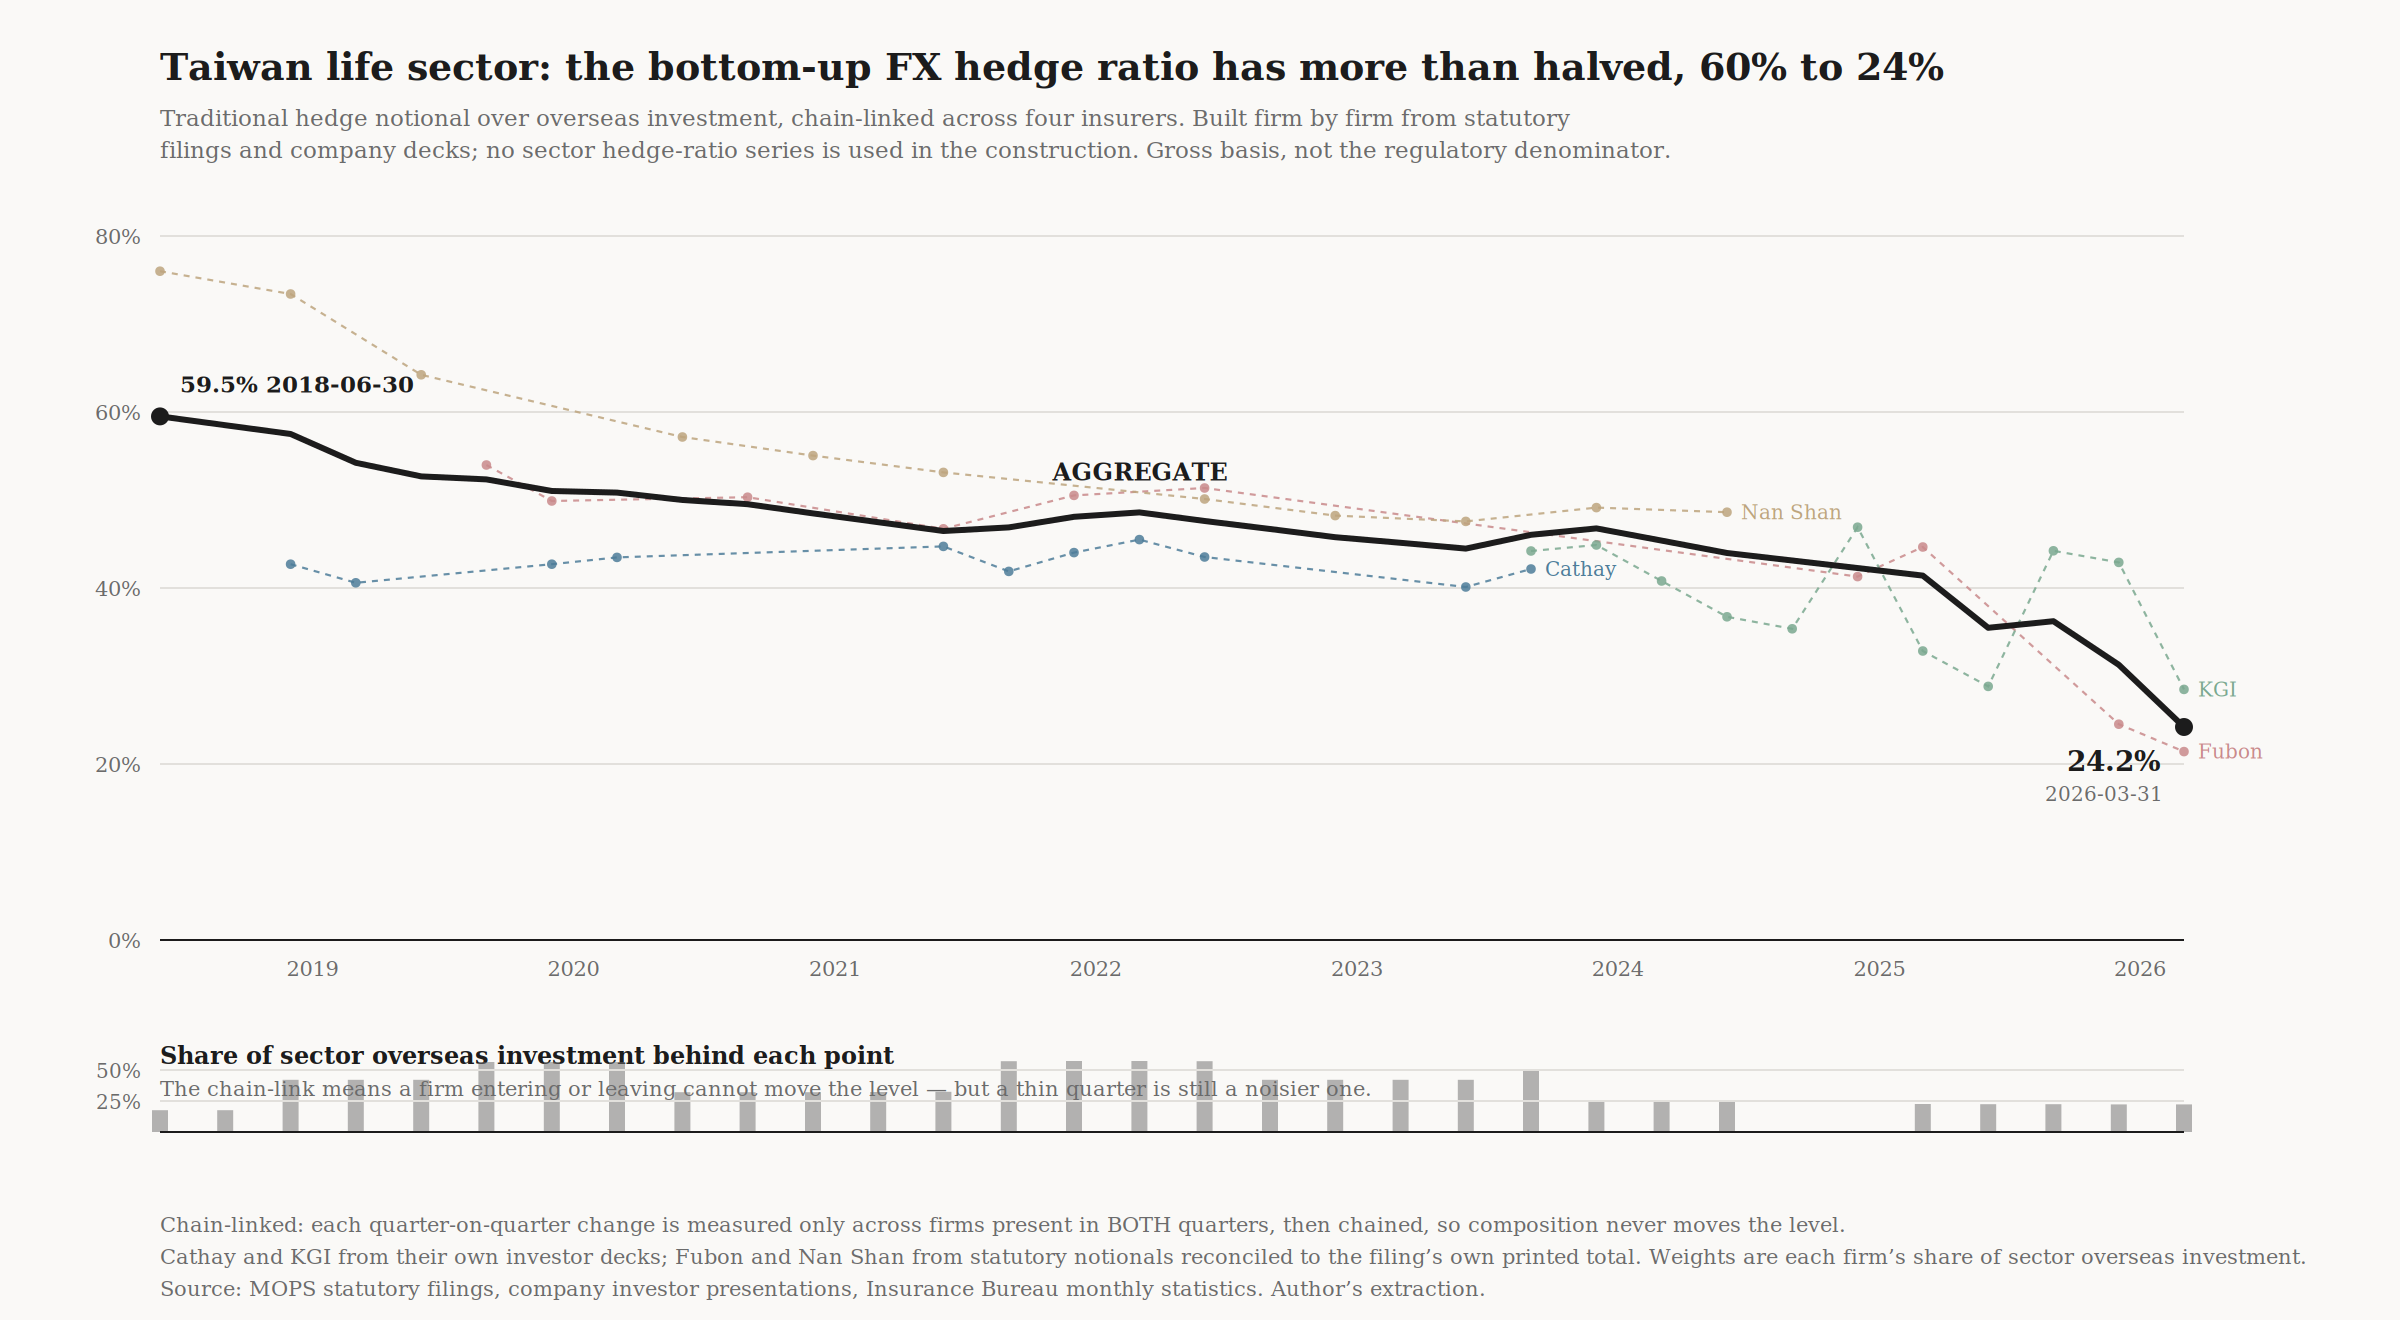
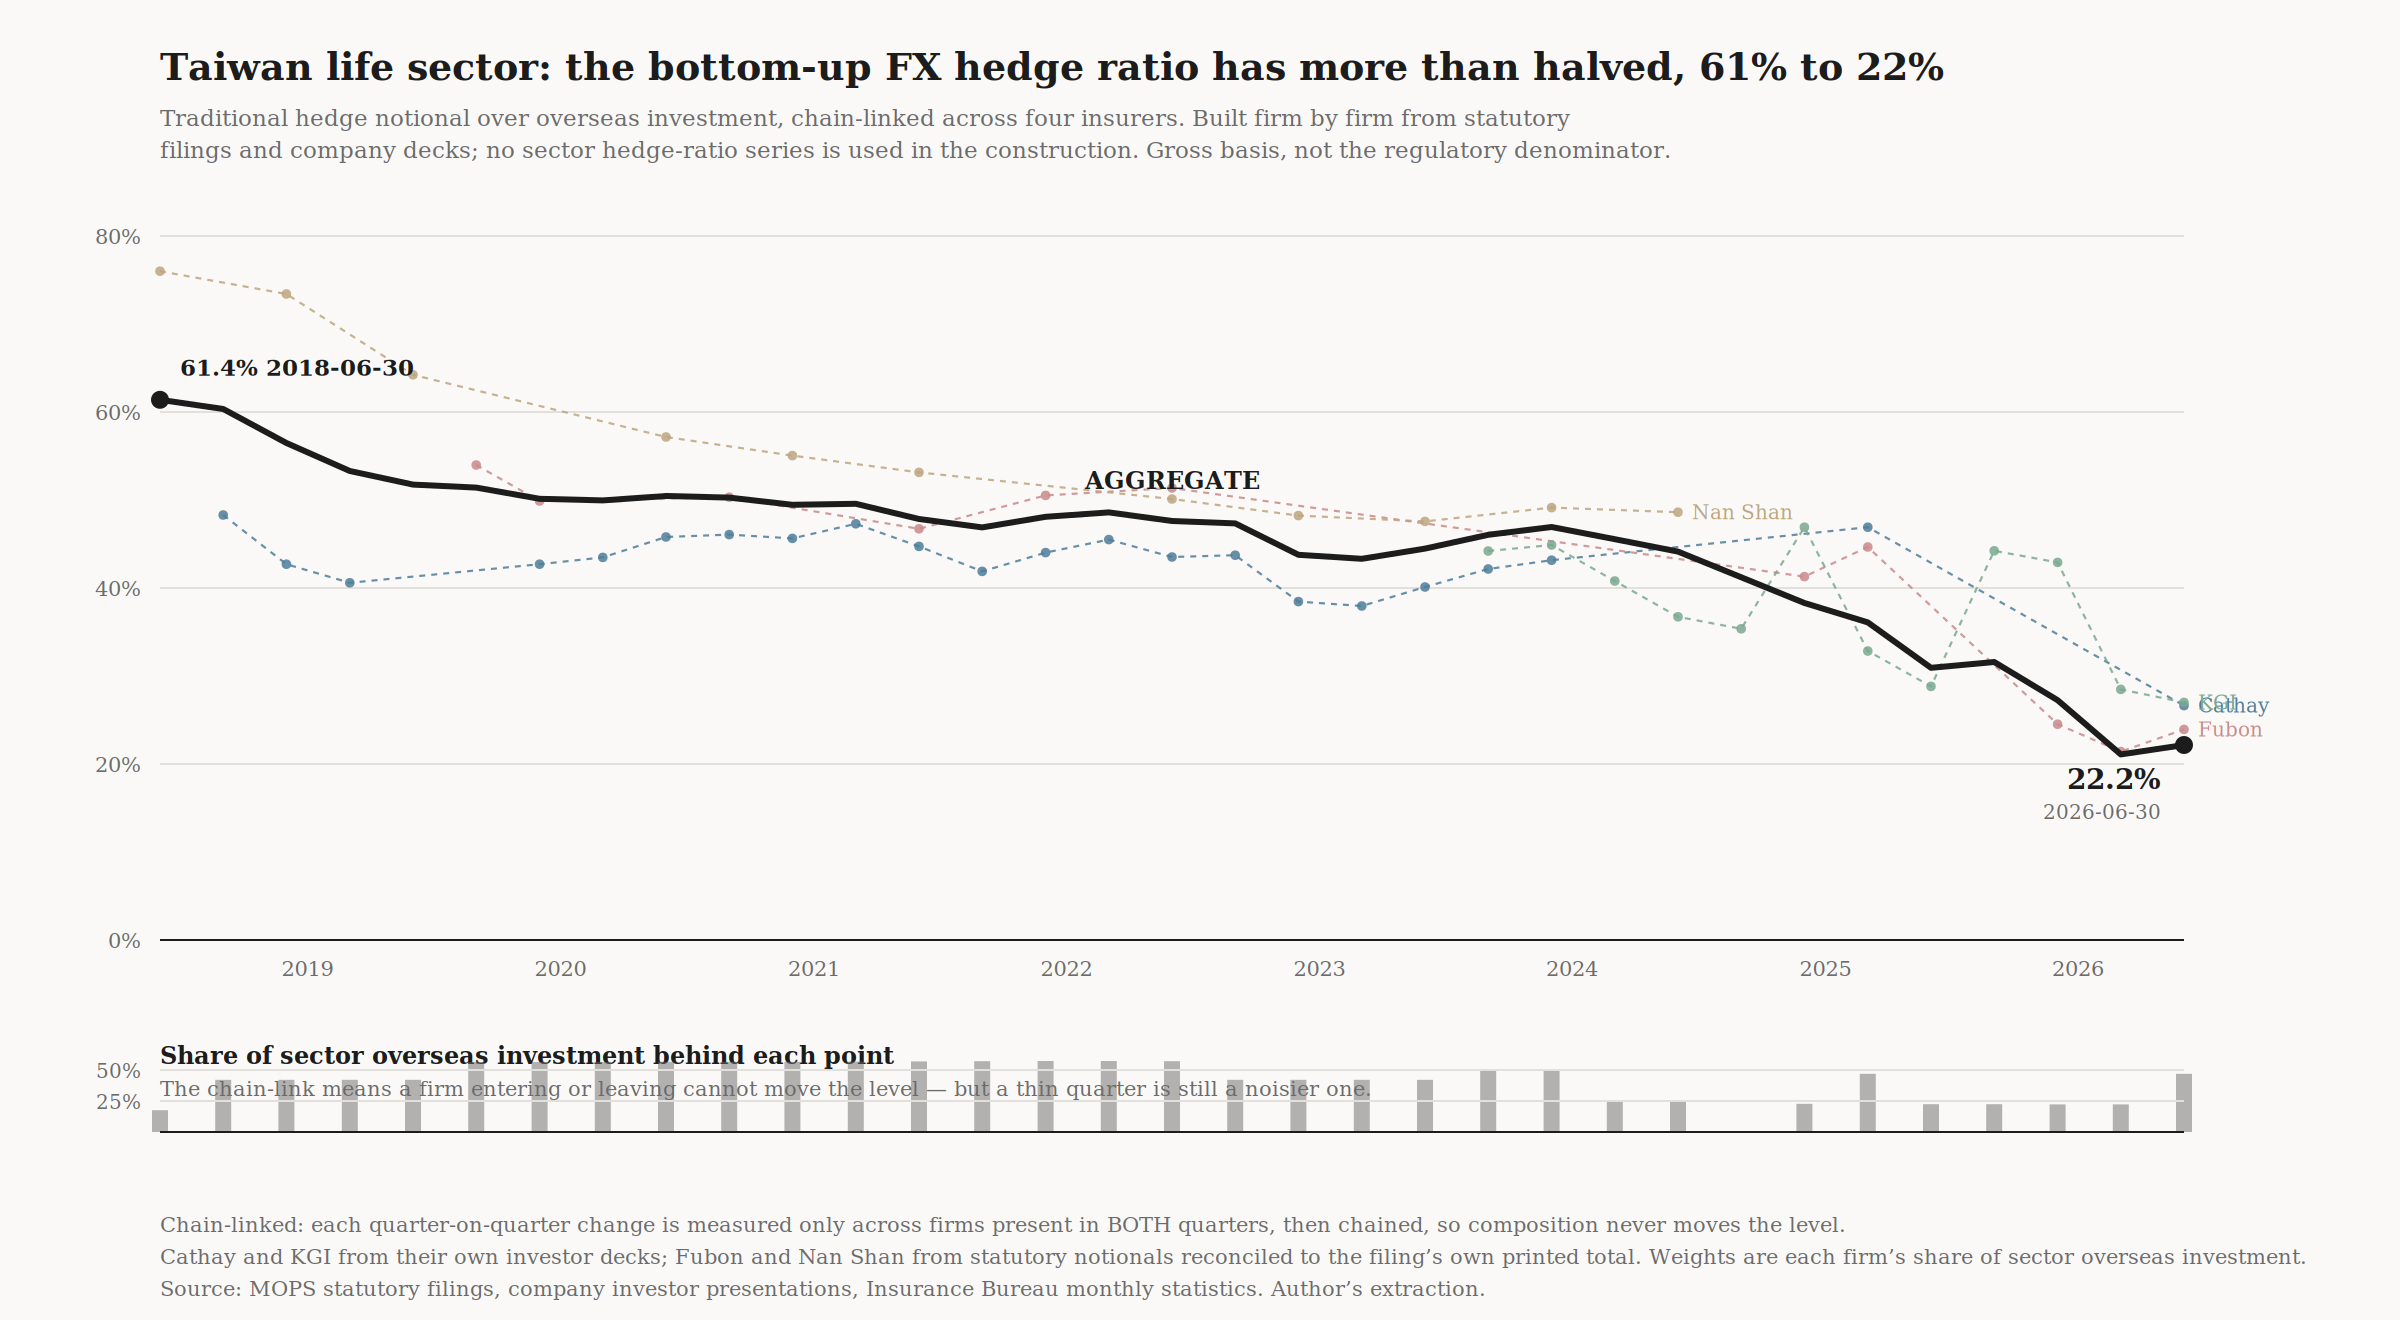
The aggregate FX hedge ratio, 32 quarters, 2018-06 to 2026-06
61.4% falling to 22.2%. Four insurers, chain-linked, 22-57% of sector overseas
investment behind each point.

Three fixes made it reliable rather than merely available:

Cathay's own quarterly deck file carries 26 hedge observations back to 1Q15
against the 12 the structure file yielded, and gives the FX-risk base at 23
periods - a base so stable, 68-71% throughout and 74% from 2026, that
interpolating it costs almost nothing. That is a quarter of the sector restored.

An EXACT observation was being discarded when it happened to sit inside a long
gap. Cathay discloses at 2025-03 and 2026-06 with nothing between 2023-12 and
2025-03, so both real points were thrown away and a quarter of the sector
vanished from the series in precisely the quarters the ratio was collapsing.

Taiwan Life was added and then removed. Its statutory notionals do not reconcile
to the filing's own printed total - which is why the verified panel excludes
them - and pulling them in raw produced a ratio running 2% in 2018 to 72% in
2024. That is capture changing, not hedging. Coverage bought that way is worth
less than nothing because it moves the aggregate and looks like a finding. A
plausibility gate now drops any firm-quarter outside 5-95% so this cannot pass
silently again.

Claude-Session: https://claude.ai/code/session_01U6NeEFVTAXo1Ao7VaAHCtb

diff --git a/scripts/stage6_aggregate_hedge_ratio.py b/scripts/stage6_aggregate_hedge_ratio.py
@@ -50,6 +50,9 @@ WAYBACK = ROOT / "data" / "firm_fund_utilisation_wayback.csv"
 FUNDS = ROOT / "data" / "ib_firm_funds.csv"
 PANEL = ROOT / "data" / "firm_hedge_panel.csv"
 STRUCT = ROOT / "data" / "hedging_structure.csv"
+CATHAYQ = ROOT / "data" / "cathay_fx_quarterly.csv"
+NOTIONAL = ROOT / "data" / "firm_hedge_notional.csv"
+FX = ROOT / "data" / "usdtwd_monthly.csv"
 OUT = ROOT / "data" / "aggregate_hedge_ratio.csv"
 
 # config/firm_uids.tsv only. Nothing inferred: an earlier pass guessed four more
@@ -57,10 +60,30 @@ OUT = ROOT / "data" / "aggregate_hedge_ratio.csv"
 UID = {"27935073": "fubon_life", "03374707": "cathay_life",
        "11456006": "nanshan_life", "03434016": "kgi_life",
        "03557017": "taiwan_life", "03458902": "shinkong_pre2026"}
+# Taiwan Life is deliberately ABSENT. Its statutory notionals do not reconcile
+# to the filing's own printed total, which is why the verified panel excludes
+# them, and pulling them in raw produced a ratio running from 2% in 2018 to 72%
+# in 2024 — capture changing, not hedging. Coverage bought that way is worth
+# less than nothing: it moves the aggregate and looks like a finding.
 NAME = {"cathay_life": "Cathay", "fubon_life": "Fubon", "kgi_life": "KGI",
         "nanshan_life": "Nan Shan"}
 MAX_GAP_Q = 4          # quarters a firm's ratio may be interpolated across
 MIN_LINK = 0.15        # minimum sector share behind both ends of a chain link
+
+
+def qend(p):
+    """Deck period label to the quarter-end it reports: FY14 -> 2014-12-31."""
+    import re as _re
+    p = (p or "").strip().upper()
+    m = _re.fullmatch(r"(FY|1Q|2Q|3Q|4Q|1H|2H|9M)?(\d{2}|\d{4})", p)
+    if not m:
+        return None
+    pre, y = m.group(1), int(m.group(2))
+    y = y + 2000 if y < 100 else y
+    return {None: f"{y}-12-31", "FY": f"{y}-12-31", "1Q": f"{y}-03-31",
+            "2Q": f"{y}-06-30", "1H": f"{y}-06-30", "3Q": f"{y}-09-30",
+            "9M": f"{y}-09-30", "4Q": f"{y}-12-31",
+            "2H": f"{y}-12-31"}.get(pre)
 
 
 def mo(d):
@@ -109,6 +132,14 @@ def interp(pts, d, max_gap=None):
         return None
     xs = sorted(pts)
     t = mo(d)
+    # An EXACT observation is always returned. Without this the gap test below
+    # discarded real data points that happened to sit inside a long gap: Cathay
+    # discloses at 2025-03 and 2026-06 with nothing between 2023-12 and 2025-03,
+    # so both were thrown away and a quarter of the sector vanished from the
+    # series in precisely the quarters the ratio was collapsing.
+    for k in xs:
+        if mo(k + "-01") == t:
+            return pts[k]
     if t <= mo(xs[0] + "-01"):
         return pts[xs[0]] if t == mo(xs[0] + "-01") or max_gap is None else None
     if t > mo(xs[-1] + "-01"):
@@ -132,7 +163,17 @@ def main():
     share_obs = {e: {m: v / sec[m] for m, v in d.items() if m in sec}
                  for e, d in fi.items()}
 
-    grid = quarters("2018-03-31", max(sec) + "-28")
+    # The sector series ends 2026-04; hold it one quarter so 2026-06 — the
+    # best-covered recent quarter, with three firms reporting — is reachable.
+    # A one-quarter carry of a series that moves a few per cent a year.
+    last = max(sec)
+    ly, lm = int(last[:4]), int(last[5:7])
+    for k in range(1, 4):
+        m2, y2 = lm + k, ly
+        if m2 > 12:
+            m2, y2 = m2 - 12, ly + 1
+        sec.setdefault(f"{y2}-{m2:02d}", sec[last])
+    grid = quarters("2017-03-31", "2026-06-30")
 
     # a firm's own foreign book on the quarterly grid: share x sector
     def fbook(e, d):
@@ -145,6 +186,28 @@ def main():
 
     # ---- per-firm hedge ratio, at its own observation dates
     obs = collections.defaultdict(dict)
+
+    # CATHAY: the quarterly deck file carries 26 hedge observations back to
+    # 1Q15, against the 12 the structure file yielded. The hedge share is quoted
+    # on the FX-risk-bearing base, so it is rescaled by that base — which the
+    # same file gives at 23 periods and which is strikingly stable, 68-71%
+    # throughout and 74% from 2026, so interpolating it costs almost nothing.
+    if CATHAYQ.exists():
+        cq = list(csv.DictReader(open(CATHAYQ, newline="", encoding="utf-8")))
+        risk = {qend(r["period"])[:7]: float(r["fx_risk_exposure_pct"])
+                for r in cq if r.get("fx_risk_exposure_pct")
+                and qend(r["period"])}
+        for r in cq:
+            d = qend(r.get("period"))
+            if not d or not r.get("hedge_cs_ndf_pct"):
+                continue
+            b = interp(risk, d)
+            if b is None:
+                continue
+            obs["cathay_life"][d[:7]] = float(r["hedge_cs_ndf_pct"]) / 100 * b / 100
+
+    # Fubon and Nan Shan: statutory notionals from the VERIFIED panel — only
+    # rows that reconcile to the filing's own printed total survive into it.
     for r in csv.DictReader(open(PANEL, newline="", encoding="utf-8")):
         e = r["entity_id"]
         if e not in NAME:
@@ -153,10 +216,23 @@ def main():
         if f:
             obs[e][r["as_of"][:7]] = (float(r["traditional_notional_ntd_k"])
                                       / 1e6 / f)
+
     for r in csv.DictReader(open(STRUCT, newline="", encoding="utf-8")):
-        if r["traditional_hedge_pct"] and r["entity_id"] in NAME:
+        # Cathay is taken from its own quarterly file above, which is richer.
+        if (r["traditional_hedge_pct"] and r["entity_id"] in NAME
+                and r["entity_id"] != "cathay_life"):
             obs[r["entity_id"]][r["as_of"][:7]] = \
                 float(r["traditional_hedge_pct"]) / 100
+
+    # A firm ratio outside this band is not a hedge ratio, it is a capture
+    # failure. Nothing legitimate sits below 5% or above 95% of a foreign book.
+    for e in list(obs):
+        bad = {d: v for d, v in obs[e].items() if not 0.05 <= v <= 0.95}
+        for d in bad:
+            del obs[e][d]
+        if bad:
+            print(f"  dropped {len(bad)} implausible {e} points: "
+                  f"{sorted(bad)[:4]}")
 
     # ---- the aggregate, CHAIN-LINKED
     #
@@ -272,7 +348,8 @@ def main():
 
 INK, MUTE, GRID = "#1c1c1c", "#6b6b6b", "#e2e0dc"
 COL = {"cathay_life": "#4e7d99", "fubon_life": "#c98a8b",
-       "kgi_life": "#7aa88f", "nanshan_life": "#bda57e"}
+       "kgi_life": "#7aa88f", "nanshan_life": "#bda57e",
+       "taiwan_life": "#9b8aa6"}
 SVG = ROOT / "reports" / "aggregate_hedge_ratio.svg"
 PNG = ROOT / "reports" / "aggregate_hedge_ratio.png"
 
